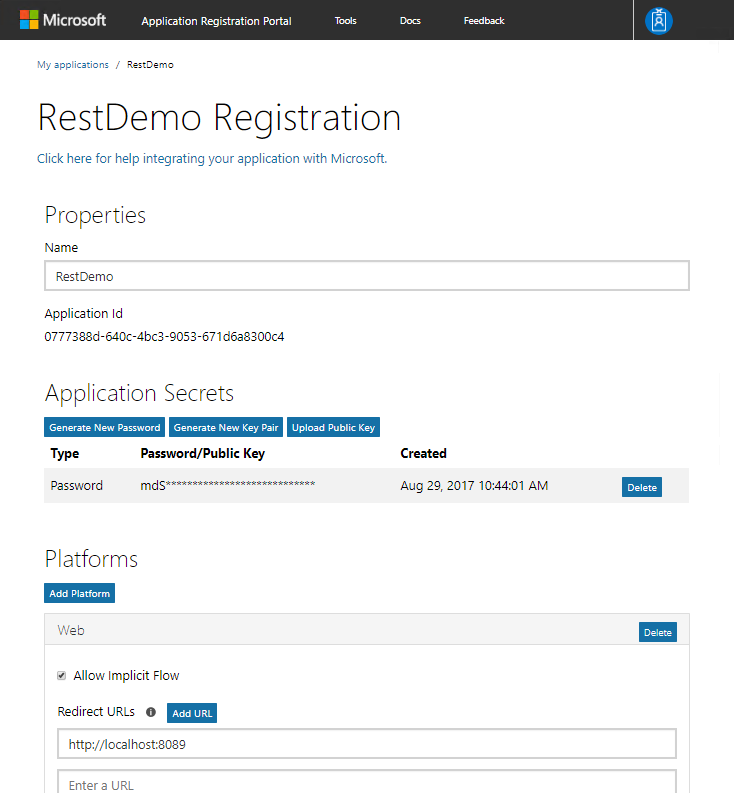
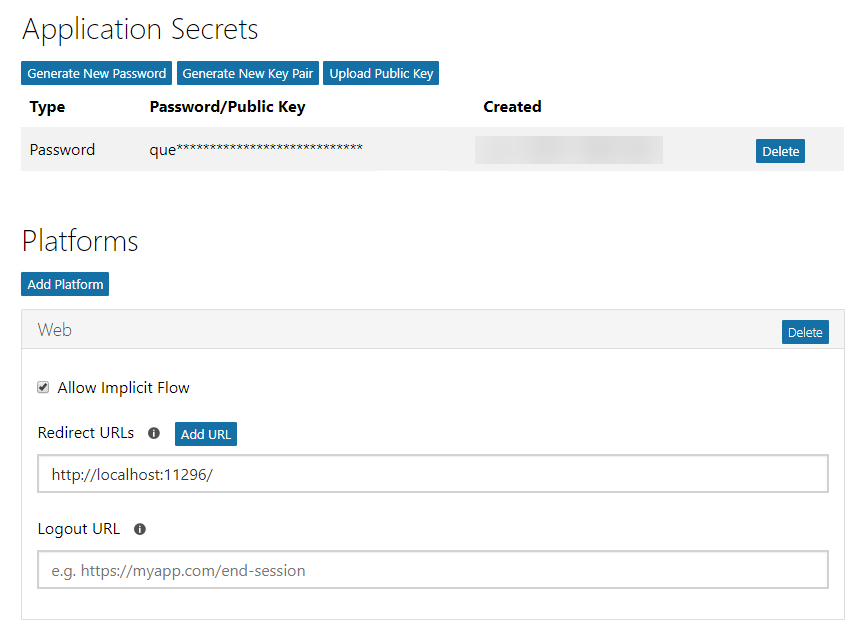
FY2018Q4QA
Update lab.md to clarify a few steps and update an image with incorrect information.  Update Demo1 powershell script to match lab.md.  Propegate changes from lab.md to demo's readme.md files.

diff --git a/lab.md b/lab.md
@@ -4,9 +4,9 @@ In this lab, you will walk through authentication and permissions scenarios usin
 
 ## In this lab
 
-1. [Obtain tokens and connect with the Microsoft Graph using REST](#exercise1)
-1. [Connecting with Microsoft Graph using OpenID Connect](#exercise2)
-1. [Dynamic permissions with the Azure AD v2.0 endpoint and Microsoft Graph](#exercise3)
+1. [Obtain tokens and connect with the Microsoft Graph using REST](#Exercise_1:_Obtain_tokens_and_connect_with_the_Microsoft_Graph_using_REST)
+1. [Connecting with Microsoft Graph using OpenID Connect](#Exercise_2:_Connecting_with_Microsoft_Graph_using_OpenID_Connect)
+1. [Dynamic permissions with the Azure AD v2.0 endpoint and Microsoft Graph](#Exercise_3:_Dynamic_permissions_with_the_Azure_AD_v2.0_endpoint_and_Microsoft_Graph)
 
 ## Prerequisites
 
@@ -16,23 +16,11 @@ This lab uses **PowerShell ISE** and **Visual Studio 2017**. It also requires an
 
 Open the **Visual Studio 2017** installer and enable the **.NET desktop development**, **Mobile applications with .NET**, **Azure development**,and **Universal Windows Platform** features. Make sure to update Visual Studio 2017 to the latest version, and update VSIX packages (Tools > Extensions and Updates).
 
-<a name="exercise1"></a>
-
 ## Exercise 1: Obtain tokens and connect with the Microsoft Graph using REST
 
 This lab will walk you through connecting to the Azure AD v2.0 endpoints to authorize the application, obtain a token and connect with Microsoft Graph.
 
 ### Register the application
-
-1. Visit the [Application Registration Portal](https://apps.dev.microsoft.com/) to register the application.
-
-1. Once the application is created, an app ID is provided on the screen. Copy this app ID as you will use it as the Client ID.
-
-1. Add a new app secret by selecting the **Generate new password** button and copy the app secret to use later as the client secret.
-
-1. Select the **Add Platform** button. In the dialog box, choose **Web Application**. Change the Redirect URL to **http://localhost:8089**. Select **Save**.
-
-    ![Screenshot of Application Registration Portal.](Images/01.png)
 
 1. Open **Visual Studio 2017** and create a new **ASP.NET Web Application (.NET Framework)**.
 
@@ -42,11 +30,21 @@ This lab will walk you through connecting to the Azure AD v2.0 endpoints to auth
 
     ![Screenshot of ASP.NET application menu with MVC highlighted.](Images/01b.png)
 
-1. Copy the URL of the MVC app for use in the following script. Start the debugger.
+1. Copy the URL of the MVC app for use in the following steps. Start the debugger.
 
     ![Screenshot of the MVC app with localhost URL highlighted.](Images/01c.png)
 
-1. Open a new **PowerShell ISE** window. Copy the following code and paste in the script pane. Replace `[YOUR WEB APP URL]` in the third to last line with the URL of the web application you created in the previous step.
+1. Visit the [Application Registration Portal](https://apps.dev.microsoft.com/) to register the application.
+
+1. Once the application is created, an app ID is provided on the screen. Copy this app ID as you will use it as the Client ID.
+
+1. Add a new app secret by selecting the **Generate new password** button and copy the app secret to use later as the client secret.
+
+1. Select the **Add Platform** button. In the dialog box, choose **Web Application**. Change the Redirect URL to the URL of your MVC Application. Select **Save**.
+
+    ![Screenshot of Application Registration Portal.](Images/01.png)
+
+1. Open a new **PowerShell ISE** window. Copy the following code and paste in the script pane. Replace `[YOUR WEB APP URL]` in the third to last line with the URL of the MVC web application you used in the Redirect URL of the application registration.
 
     ```powershell
     function Get-CurrentUserProfile
@@ -164,8 +162,6 @@ This lab will walk you through connecting to the Azure AD v2.0 endpoints to auth
 
     ![Screenshot of the deoded JWT token ](Images/09.png)
 
-<a name="exercise2"></a>
-
 ## Exercise 2: Connecting with Microsoft Graph using OpenID Connect
 
 This exercise will walk you through creating a web application that connects with Microsoft Graph using OpenID Connect.
@@ -198,13 +194,13 @@ This exercise will walk you through creating a web application that connects wit
 
 1. Open the solution using **Visual Studio 2017**. Restore the missing NuGet packages and reload the solution.
 
-1. Verify that the `Scope` variable in your code is equal to `openid email profile offline_access Mail.Read`. Change it if needed.
-
-    >Note:  Edit the **web.config** file with your app's coordinates. Find the appSettings key `ida:ClientId` and provide the app ID from your app registration. Find the appSettings key `ida:ClientSecret` and provide the value from the app secret generated in the previous step.
+1. Edit the **web.config** file with your app's coordinates. Find the appSettings key `ida:ClientId` and provide the app ID from your app registration. Find the appSettings key `ida:ClientSecret` and provide the value from the app secret generated in the previous step.
 
 ### Inspect the code sample
 
 1. Open the **App_Start/Startup.Auth.cs** file. This is where authentication begins using the OWIN middleware.
+
+1. Verify that the `Scope` variable in your code is equal to `openid email profile offline_access Mail.Read`. Change it if needed.
 
     ```csharp
     app.UseOpenIdConnectAuthentication(
@@ -351,7 +347,7 @@ This exercise will walk you through creating a web application that connects wit
 
 ### Run the application
 
-1. Run the application. Selecting either **About** or the sign in link in the top right will prompt you to sign in.
+1. Run the application, verifying it's running **https://localhost:44326/** which you entered as your Redirect URL in your app registration. Selecting either **About** or the sign in link in the top right will prompt you to sign in.
 
     ![Screenshot of the web application pre logged in](Images/13.png)
 
@@ -366,8 +362,6 @@ This exercise will walk you through creating a web application that connects wit
     ![Screenshot of currently logged in user's data after logging in.](Images/16.png)
 
 1. Since you are now logged in, the **Read Mail** link is now visible. Select the **Read Mail** link. You can now read email messages from your inbox.
-
-<a name="exercise3"></a>
 
 ## Exercise 3: Dynamic permissions with the Azure AD v2.0 endpoint and Microsoft Graph
 

diff --git a/Demos/01-rest-via-powershell/readme.md b/Demos/01-rest-via-powershell/readme.md
@@ -4,16 +4,6 @@ This demo will walk you through connecting to the Azure AD v2.0 endpoints to aut
 
 ## Register the application
 
-1. Visit the [Application Registration Portal](https://apps.dev.microsoft.com/) to register the application.
-
-1. Once the application is created, an app ID is provided on the screen. Copy this app ID as you will use it as the Client ID.
-
-1. Add a new app secret by selecting the **Generate new password** button and copy the app secret to use later as the client secret.
-
-1. Select the **Add Platform** button. In the dialog box, choose **Web Application**. Change the Redirect URL to **http://localhost:8089**. Select **Save**.
-
-    ![Screenshot of Application Registration Portal.](../../Images/01.png)
-
 1. Open **Visual Studio 2017** and create a new **ASP.NET Web Application (.NET Framework)**.
 
     ![Screenshot of Visual Studio 2017 new project menu.](../../Images/01a.png)
@@ -22,11 +12,21 @@ This demo will walk you through connecting to the Azure AD v2.0 endpoints to aut
 
     ![Screenshot of ASP.NET application menu with MVC highlighted.](../../Images/01b.png)
 
-1. Copy the URL of the MVC app for use in the following script. Start the debugger.
+1. Copy the URL of the MVC app for use in the following steps. Start the debugger.
 
     ![Screenshot of the MVC app with localhost URL highlighted.](../../Images/01c.png)
 
-1. Open a new **PowerShell ISE** window. Copy the following code and paste in the script pane. Replace `[YOUR WEB APP URL]` in the third to last line with the URL of the web application you created in the previous step.
+1. Visit the [Application Registration Portal](https://apps.dev.microsoft.com/) to register the application.
+
+1. Once the application is created, an app ID is provided on the screen. Copy this app ID as you will use it as the Client ID.
+
+1. Add a new app secret by selecting the **Generate new password** button and copy the app secret to use later as the client secret.
+
+1. Select the **Add Platform** button. In the dialog box, choose **Web Application**. Change the Redirect URL to the URL of your MVC Application. Select **Save**.
+
+    ![Screenshot of Application Registration Portal.](../../Images/01.png)
+
+1. Open a new **PowerShell ISE** window. Copy the following code and paste in the script pane. Replace `[YOUR WEB APP URL]` in the third to last line with the URL of the MVC web application you used in the Redirect URL of the application registration.
 
     ```powershell
     function Get-CurrentUserProfile

diff --git a/Demos/02-openid-connect/readme.md b/Demos/02-openid-connect/readme.md
@@ -30,13 +30,13 @@ This demo will walk you through creating a web application that connects with Mi
 
 1. Open the solution using **Visual Studio 2017**. Restore the missing NuGet packages and reload the solution.
 
-1. Verify that the `Scope` variable in your code is equal to `openid email profile offline_access Mail.Read`. Change it if needed.
-
-    >Note:  Edit the **web.config** file with your app's coordinates. Find the appSettings key `ida:ClientId` and provide the app ID from your app registration. Find the appSettings key `ida:ClientSecret` and provide the value from the app secret generated in the previous step.
+1. Edit the **web.config** file with your app's coordinates. Find the appSettings key `ida:ClientId` and provide the app ID from your app registration. Find the appSettings key `ida:ClientSecret` and provide the value from the app secret generated in the previous step.
 
 ## Inspect the code sample
 
 1. Open the **App_Start/Startup.Auth.cs** file. This is where authentication begins using the OWIN middleware.
+
+1. Verify that the `Scope` variable in your code is equal to `openid email profile offline_access Mail.Read`. Change it if needed.
 
     ```csharp
     app.UseOpenIdConnectAuthentication(

diff --git a/Demos/03-dynamic-permissions/readme.md b/Demos/03-dynamic-permissions/readme.md
@@ -12,7 +12,9 @@ This demo will walk you through creating a web application that connects with Mi
 
 1. Add a new app secret by selecting the **Generate new password** button and copy the secret to use later as the Client Secret.
 
-1. Select the **Add Platform** button. A dialog box is presented, choose **Web Application**. Change the Redirect URL to **https://localhost:44326/**. Select **Save** to save all changes.
+1. Select the **Add Platform** button. A dialog box is presented, choose **Web Application**. 
+
+1. Change the Redirect URL to **https://localhost:44326/**. Select **Save** to save all changes.
 
     ![Screenshot of permissions dialog for the Application Registration Portal.](../../Images/11.png)
 
